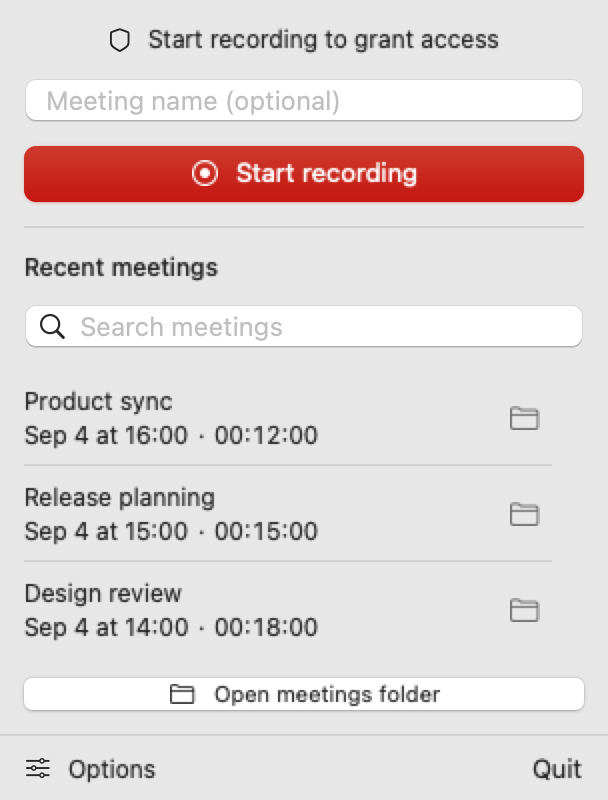
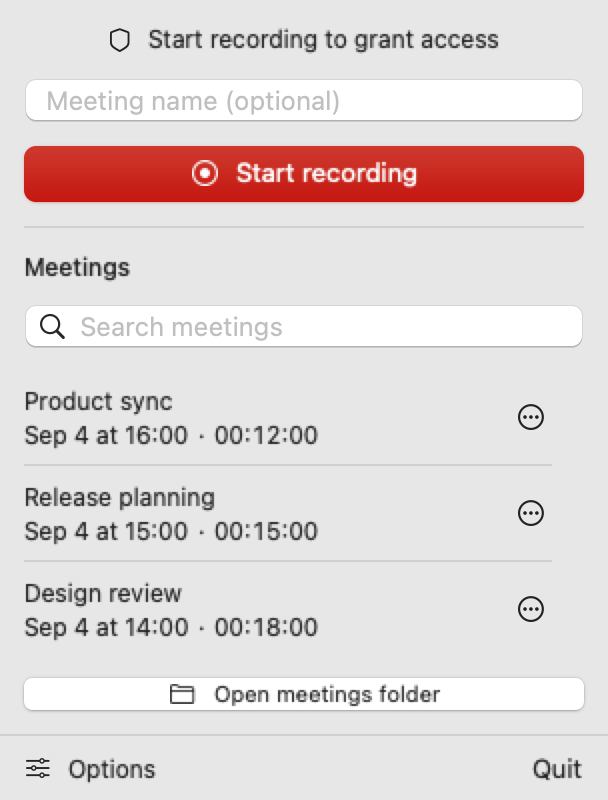
Document calendar integration, batch transcription, and row actions

diff --git a/README.md b/README.md
@@ -2,13 +2,14 @@
 
 Record a display, system audio, and microphone from the macOS menu bar. After
 recording stops, Whisper transcribes the audio locally. Each meeting gets a
-folder with the video, audio, and transcript, accessible from a Finder button.
+folder with the video, audio, and transcript; clicking the finished meeting in
+the menu opens its files in Finder.
 
 Requires Apple Silicon and macOS 15+. Downloads approximately 1.6 GB of speech
 model files during initial setup. Transcription runs locally and works offline
 afterward.
 
-<img src="docs/menu-bar.png" alt="Better Meeting menu with Options at the bottom left and Finder buttons for recent meetings" width="304">
+<img src="docs/menu-bar.png" alt="Better Meeting menu with a search field, meeting rows with action buttons, and an Open meetings folder button" width="304">
 
 The app's menu, shown with fictional meetings.
 
@@ -67,8 +68,8 @@ updates. Uninstalling the app keeps saved meetings.
 4. Start recording and grant **Screen & System Audio Recording** and
    **Microphone** access. If access is blocked, click **Open System Settings** to enable it,
    then use **Restart Better Meeting** for screen access or **Try again** for microphone access.
-5. Stop recording and wait for transcription. Click the folder button beside the
-   finished meeting to open its files in Finder.
+5. Stop recording and wait for transcription. Click the finished meeting to
+   open its files in Finder.
 
 The app downloads and prepares the selected speech model in the background when
 needed. The menu shows progress; you can record during setup, but transcription
@@ -99,6 +100,20 @@ You can change notification access in macOS **System Settings → Notifications
 To open the app automatically when you sign in, enable **Options → Launch at login**.
 If macOS requires approval, use **Open Login Items…** below the checkbox and allow
 Better Meeting to open at login.
+
+## Calendar integration
+
+The menu can show your next meeting from the macOS Calendar app. Enable
+**Options → Calendars** and choose which calendars to read. The menu shows the
+next event within 24 hours with a **Record this meeting** button that starts a
+recording named after the event. With **Notify at start** enabled, the app also
+sends a notification when the event starts.
+
+The integration is off by default, reads events only, and never edits them.
+macOS requires full calendar access for reading; the app offers to request it
+when you first enable the feature. Event details stay on your Mac. Links
+between recordings and calendar events are stored in the meeting folder; see
+[docs/calendar-data.md](docs/calendar-data.md) for the data model.
 
 ## Recording settings
 
@@ -169,13 +184,15 @@ shows the error. Cancellation keeps completed passes for a later retry.
 
 ## Saved meetings
 
-The menu shows the 10 most recent completed meetings. Search finds matching titles
+The menu lists all completed meetings, most recent first; scroll to see older
+ones. Search finds matching titles
 and saved transcript text across all completed meetings in the selected folder,
 including older meetings and manual Markdown edits. Search runs locally.
 
-Right-click a completed meeting to **Copy Transcript** or **Rename…**. Copy uses
-the saved Markdown, including any edits. Rename updates the folder, title, and
-metadata while keeping the transcript body and media files.
+Use the **•••** button on a meeting row, or right-click the row, to open
+**Copy Transcript**, **Rename…**, **Re-transcribe…**, and **Export bundle…**.
+Copy uses the saved Markdown, including any edits. Rename updates the folder,
+title, and metadata while keeping the transcript body and media files.
 
 ### Re-transcribe a meeting
 
@@ -183,6 +200,15 @@ metadata while keeping the transcript body and media files.
 It reuses matching passes and keeps the current transcript available until the
 replacement is ready. A successful run replaces the transcript, including manual
 edits, while preserving the meeting name. Cancellation or failure keeps the old files.
+
+### Transcribe all unfinished recordings
+
+When recordings failed, were cancelled, or are waiting for transcription, the
+menu shows **Transcribe all** with their count. Choosing it transcribes them in
+order; progress shows **Transcribing 2 of 3** plus the current meeting and the
+number still waiting. Cancel stops the queue and reports how many finished;
+every recording keeps its completed language passes. If you quit while the
+queue runs, the app asks whether to wait until it finishes.
 
 ### Retry or cancel transcription
 
@@ -234,7 +260,8 @@ remains. Typed titles and titles from older folders are preserved.
 
 ## Screenshots and export bundles
 
-Right-click a finished meeting and choose **Export bundle…**. The app reads the
+Choose **Export bundle…** from a finished meeting's **•••** menu or right-click.
+The app reads the
 saved video, extracts screenshots and screen text, and opens `artifacts/` in Finder.
 Enable **Options → Files → Include screenshots and screen text** to run this
 after each transcript is saved. Automatic export is off by default.
